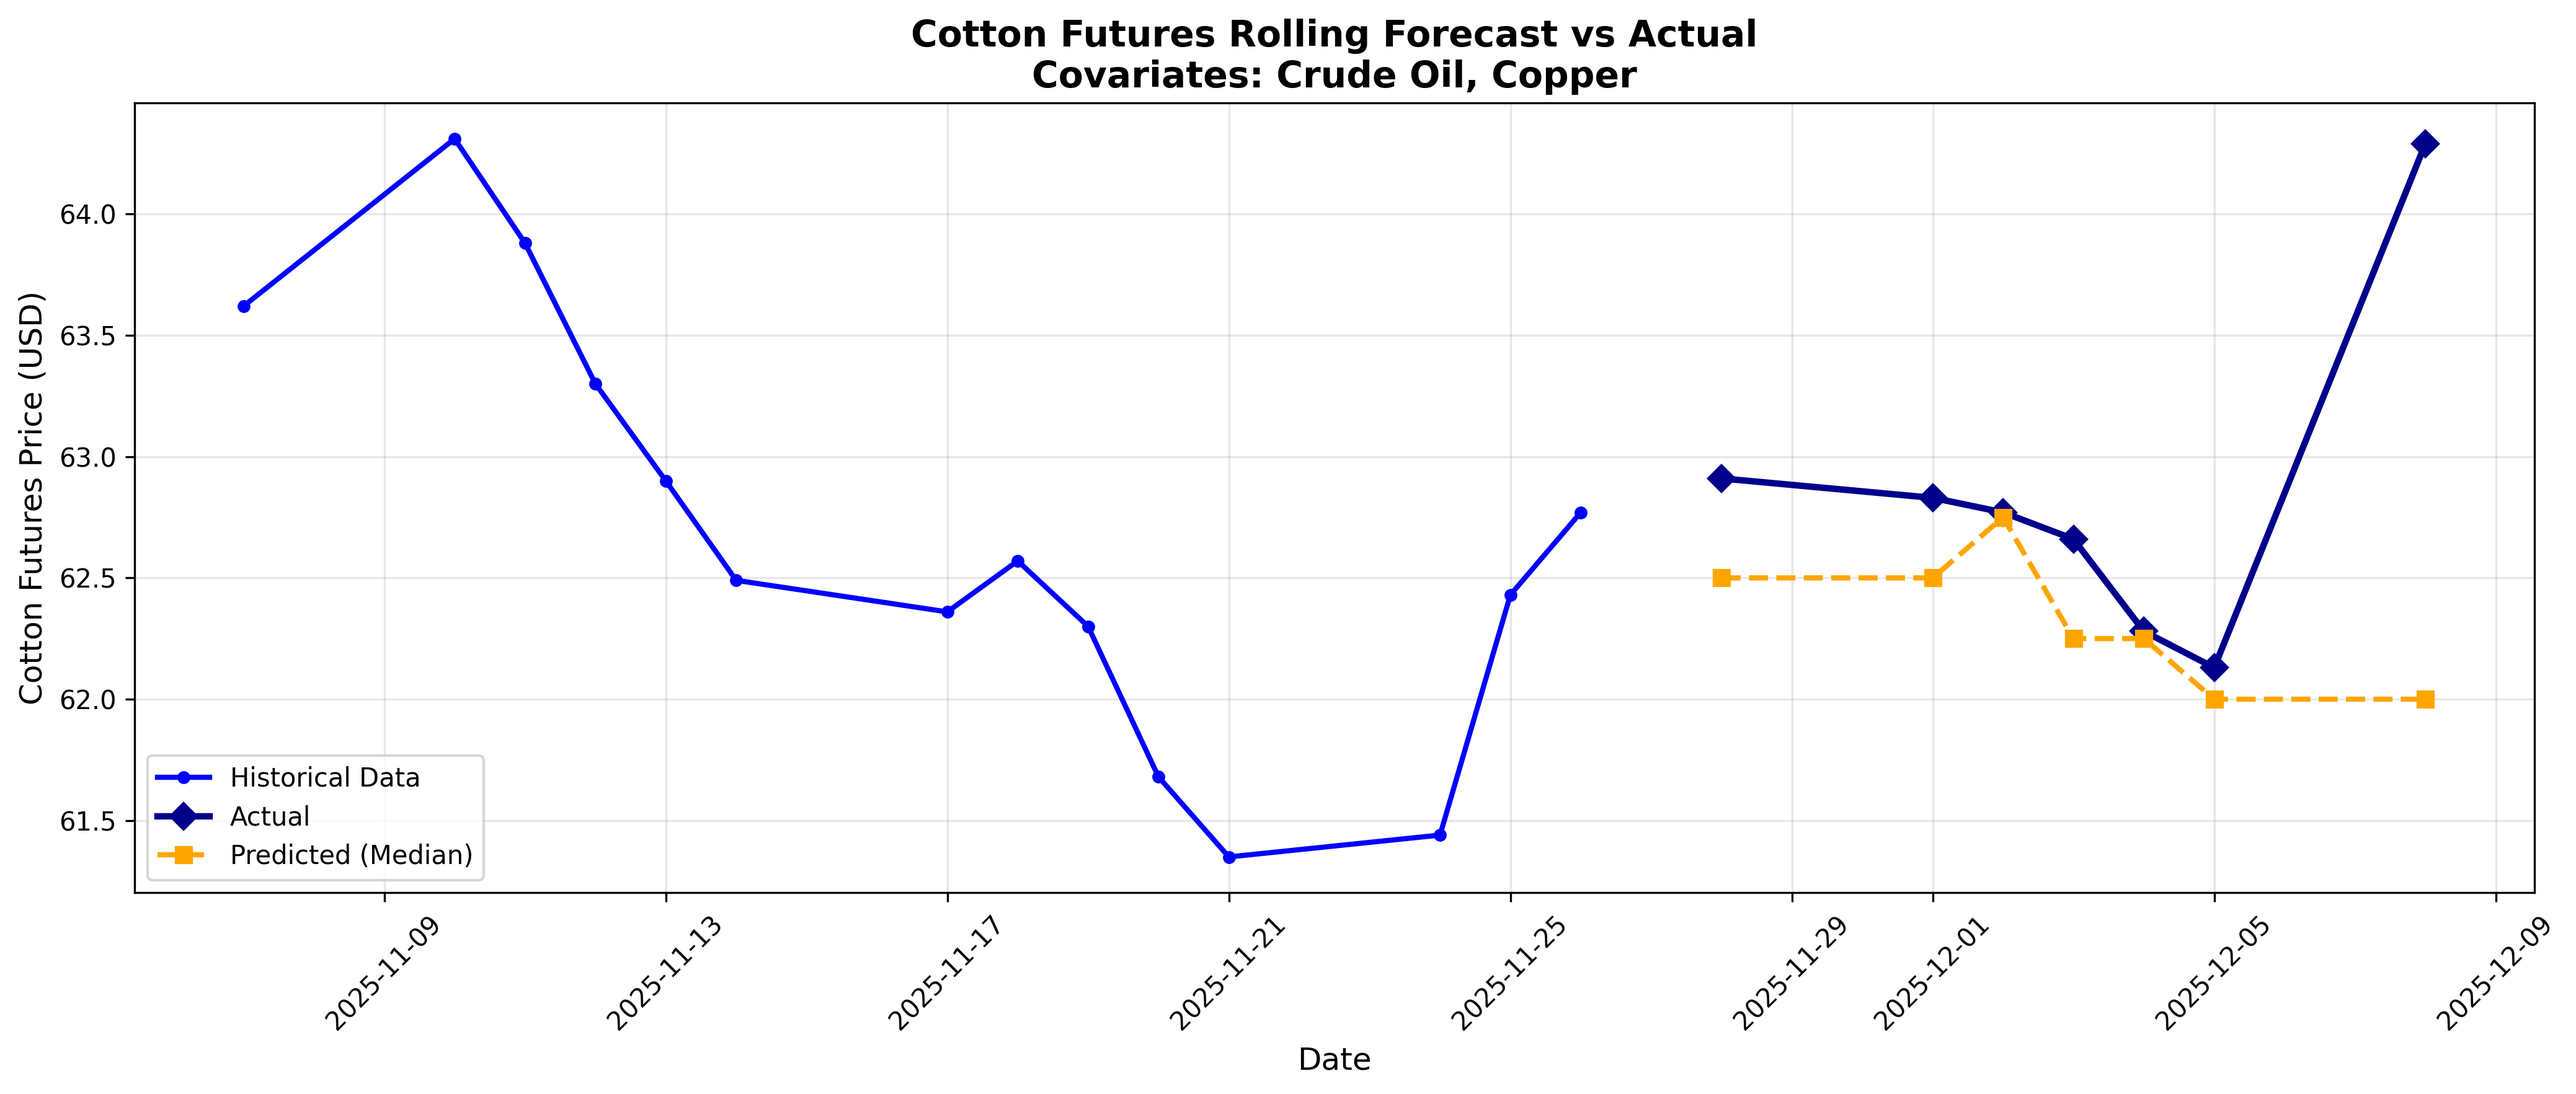
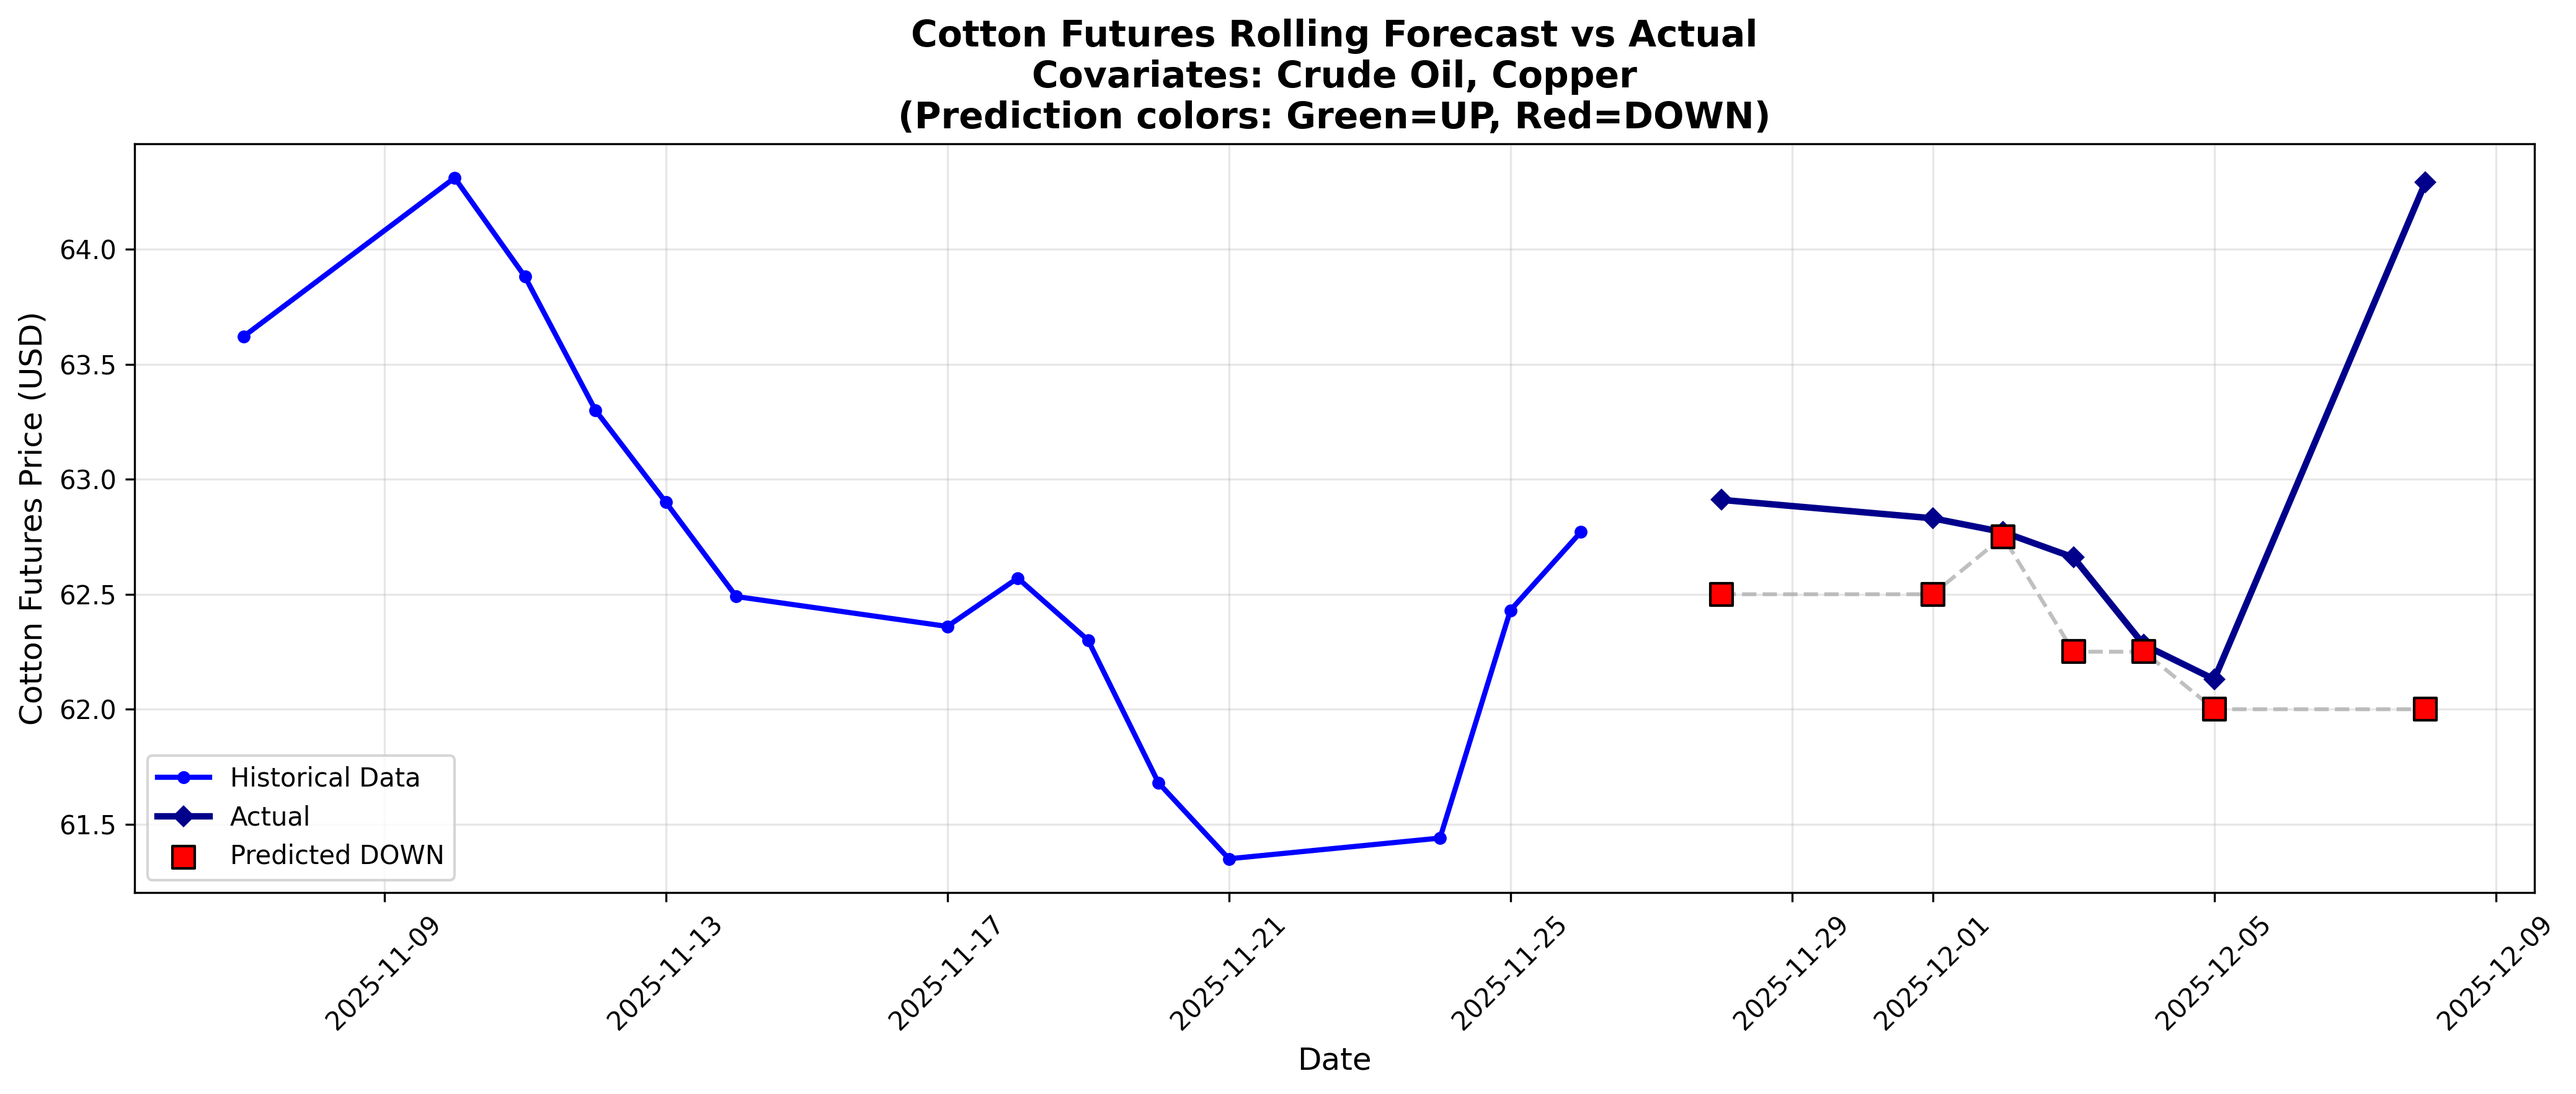
add classification colours to prediction in plot

diff --git a/experiments_zeroshot/rolling/forecast_rolling.py b/experiments_zeroshot/rolling/forecast_rolling.py
@@ -111,9 +111,9 @@ def calculate_classification_metrics(predicted_directions, actual_directions):
     y_true = np.array([1 if d == 'UP' else 0 for d in actual_directions])
 
     accuracy = accuracy_score(y_true, y_pred)
-    precision = precision_score(y_true, y_pred, zero_division=0)
-    recall = recall_score(y_true, y_pred, zero_division=0)
-    f1 = f1_score(y_true, y_pred, zero_division=0)
+    precision = precision_score(y_true, y_pred, zero_division='warn')
+    recall = recall_score(y_true, y_pred, zero_division='warn')
+    f1 = f1_score(y_true, y_pred, zero_division='warn')
 
     return {
         'accuracy': accuracy,
@@ -336,8 +336,8 @@ def print_metrics(metrics, actual_values, test_dates):
 # Plotting Functions
 # ============================================================================
 
-def plot_forecast(combined_data, test_start_idx, forecasts, actual_values, test_dates):
-    """Plot time series forecast vs actual (main plot)."""
+def plot_forecast(combined_data, test_start_idx, forecasts, actual_values, test_dates, metrics):
+    """Plot time series forecast vs actual (main plot) with direction-based coloring."""
     fig, ax = plt.subplots(figsize=(14, 6))
 
     # Get historical data for context (last 14 days before test period)
@@ -348,20 +348,33 @@ def plot_forecast(combined_data, test_start_idx, forecasts, actual_values, test_
     median_idx = QUANTILE_LEVELS.index(0.5)
     median_forecasts = forecasts[:, median_idx]
 
-    # Plot time series with forecast (no uncertainty bands)
+    # Plot historical data
     ax.plot(historical_dates, historical_prices, label='Historical Data',
             color='blue', linewidth=2, marker='o', markersize=4)
 
+    # Plot actual values
     ax.plot(test_dates, actual_values, label='Actual',
-            color='darkblue', linewidth=2.5, marker='D', markersize=7)
+            color='darkblue', linewidth=2.5, marker='D', markersize=5)
 
-    ax.plot(test_dates, median_forecasts, label='Predicted (Median)',
-            color='orange', linewidth=2, marker='s', markersize=6, linestyle='--')
+    # Plot predicted values with dynamic colors based on direction
+    predicted_dirs = metrics['predicted_directions']
+
+    # Plot connecting line (gray dashed)
+    ax.plot(test_dates, median_forecasts, color='gray', linewidth=1.5,
+            linestyle='--', alpha=0.5, zorder=1)
+
+    # Plot each prediction point with color based on direction
+    for i, (date, pred, direction) in enumerate(zip(test_dates, median_forecasts, predicted_dirs)):
+        color = 'green' if direction == 'UP' else 'red'
+        label = f'Predicted {direction}' if i == 0 or (i > 0 and direction != predicted_dirs[i-1]) else None
+        ax.scatter(date, pred, color=color, s=75, marker='s',
+                  edgecolor='black', linewidth=1, zorder=3, label=label)
 
     ax.set_xlabel('Date', fontsize=12)
     ax.set_ylabel('Cotton Futures Price (USD)', fontsize=12)
     ax.set_title('Cotton Futures Rolling Forecast vs Actual\n' +
-                 'Covariates: Crude Oil, Copper',
+                 'Covariates: Crude Oil, Copper\n' +
+                 '(Prediction colors: Green=UP, Red=DOWN)',
                  fontsize=14, fontweight='bold')
     ax.legend(loc='best')
     ax.grid(True, alpha=0.3)
@@ -483,7 +496,7 @@ def main():
         print_metrics(metrics, actual_values, test_dates)
 
         # Plot forecast (time series - always generated)
-        plot_forecast(combined_data, test_start_idx, rolling_forecasts, actual_values, test_dates)
+        plot_forecast(combined_data, test_start_idx, rolling_forecasts, actual_values, test_dates, metrics)
 
         # Plot metrics (regression + classification - optional)
         if PLOT_METRICS:
